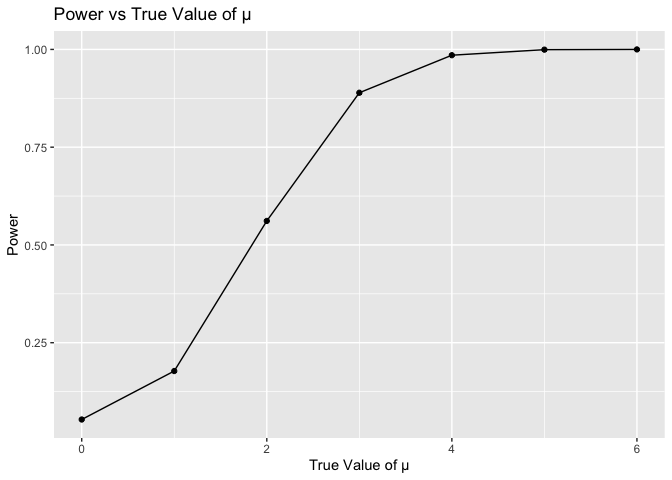
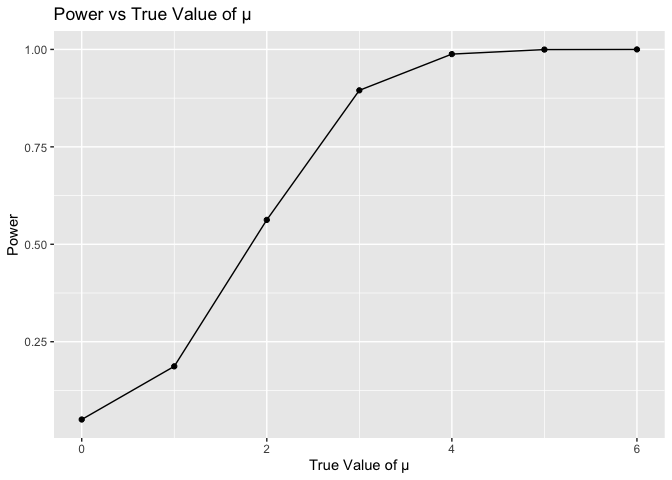
comments are added

diff --git a/p8105_hw5_qw2418.md b/p8105_hw5_qw2418.md
@@ -218,6 +218,10 @@ ggplot(combined_data, aes(x = Week, y = Observation, group = `Subject ID`, color
 
 ![](p8105_hw5_qw2418_files/figure-gfm/unnamed-chunk-6-1.png)<!-- -->
 
+*comment on differences between groups *: In the control group, when the
+observations are relatively stable across weeks. However, in the
+experimental group, the observation increases when week increases.
+
 ## Problem 3
 
 First set the following design elements:
@@ -284,19 +288,19 @@ for (i in mu){
 power
 ```
 
-    ## [1] 0.0536 0.1776 0.5614 0.8892 0.9852 0.9994 1.0000
+    ## [1] 0.0504 0.1868 0.5626 0.8950 0.9880 0.9996 1.0000
 
 ``` r
 mean_estimate
 ```
 
-    ## [1] 0.02085768 0.98413142 1.99234898 3.00183790 3.99493244 5.00969956 5.98496854
+    ## [1] 0.01182005 0.98747296 2.00135396 2.98474683 3.98600500 4.98133098 6.01763679
 
 ``` r
 mean_est_rej
 ```
 
-    ## [1] 0.3699448 2.2659599 2.5993187 3.1914532 4.0287651 5.0117623 5.9849685
+    ## [1] 0.1407539 2.2304799 2.6165246 3.1585029 4.0138080 4.9825350 6.0176368
 
 Make a plot showing the proportion of times the null was rejected (the
 power of the test) on the y axis and the true value of μ on the x axis.
@@ -308,13 +312,13 @@ df
 ```
 
     ##   mu  power mean_estimate mean_est_rej
-    ## 1  0 0.0536    0.02085768    0.3699448
-    ## 2  1 0.1776    0.98413142    2.2659599
-    ## 3  2 0.5614    1.99234898    2.5993187
-    ## 4  3 0.8892    3.00183790    3.1914532
-    ## 5  4 0.9852    3.99493244    4.0287651
-    ## 6  5 0.9994    5.00969956    5.0117623
-    ## 7  6 1.0000    5.98496854    5.9849685
+    ## 1  0 0.0504    0.01182005    0.1407539
+    ## 2  1 0.1868    0.98747296    2.2304799
+    ## 3  2 0.5626    2.00135396    2.6165246
+    ## 4  3 0.8950    2.98474683    3.1585029
+    ## 5  4 0.9880    3.98600500    4.0138080
+    ## 6  5 0.9996    4.98133098    4.9825350
+    ## 7  6 1.0000    6.01763679    6.0176368
 
 ``` r
 ggplot(df, aes(x = mu, y = power)) +
@@ -328,9 +332,7 @@ ggplot(df, aes(x = mu, y = power)) +
 Make a plot showing the average estimate of μ̂ on the y axis and the true
 value of μ on the x axis. Make a second plot (or overlay on the first)
 the average estimate of μ̂ only in samples for which the null was
-rejected on the y axis and the true value of μ on the x axis. Is the
-sample average of μ̂ across tests for which the null is rejected
-approximately equal to the true value of μ? Why or why not?
+rejected on the y axis and the true value of μ on the x axis.
 
 ``` r
 ggplot(df) +
@@ -346,3 +348,12 @@ ggplot(df) +
 ```
 
 ![](p8105_hw5_qw2418_files/figure-gfm/unnamed-chunk-9-1.png)<!-- -->
+
+Is the sample average of μ̂ across tests for which the null is rejected
+approximately equal to the true value of μ? Why or why not?
+
+The sample average of μ̂ across tests for which the null is rejected is
+only approximately equal to the true value of μ when the true value of μ
+is 3 or larger. This is because the power of the test is lower for
+smaller effect sizes, leading to a selection bias in which only the more
+extreme sample means lead to rejection of the null.
